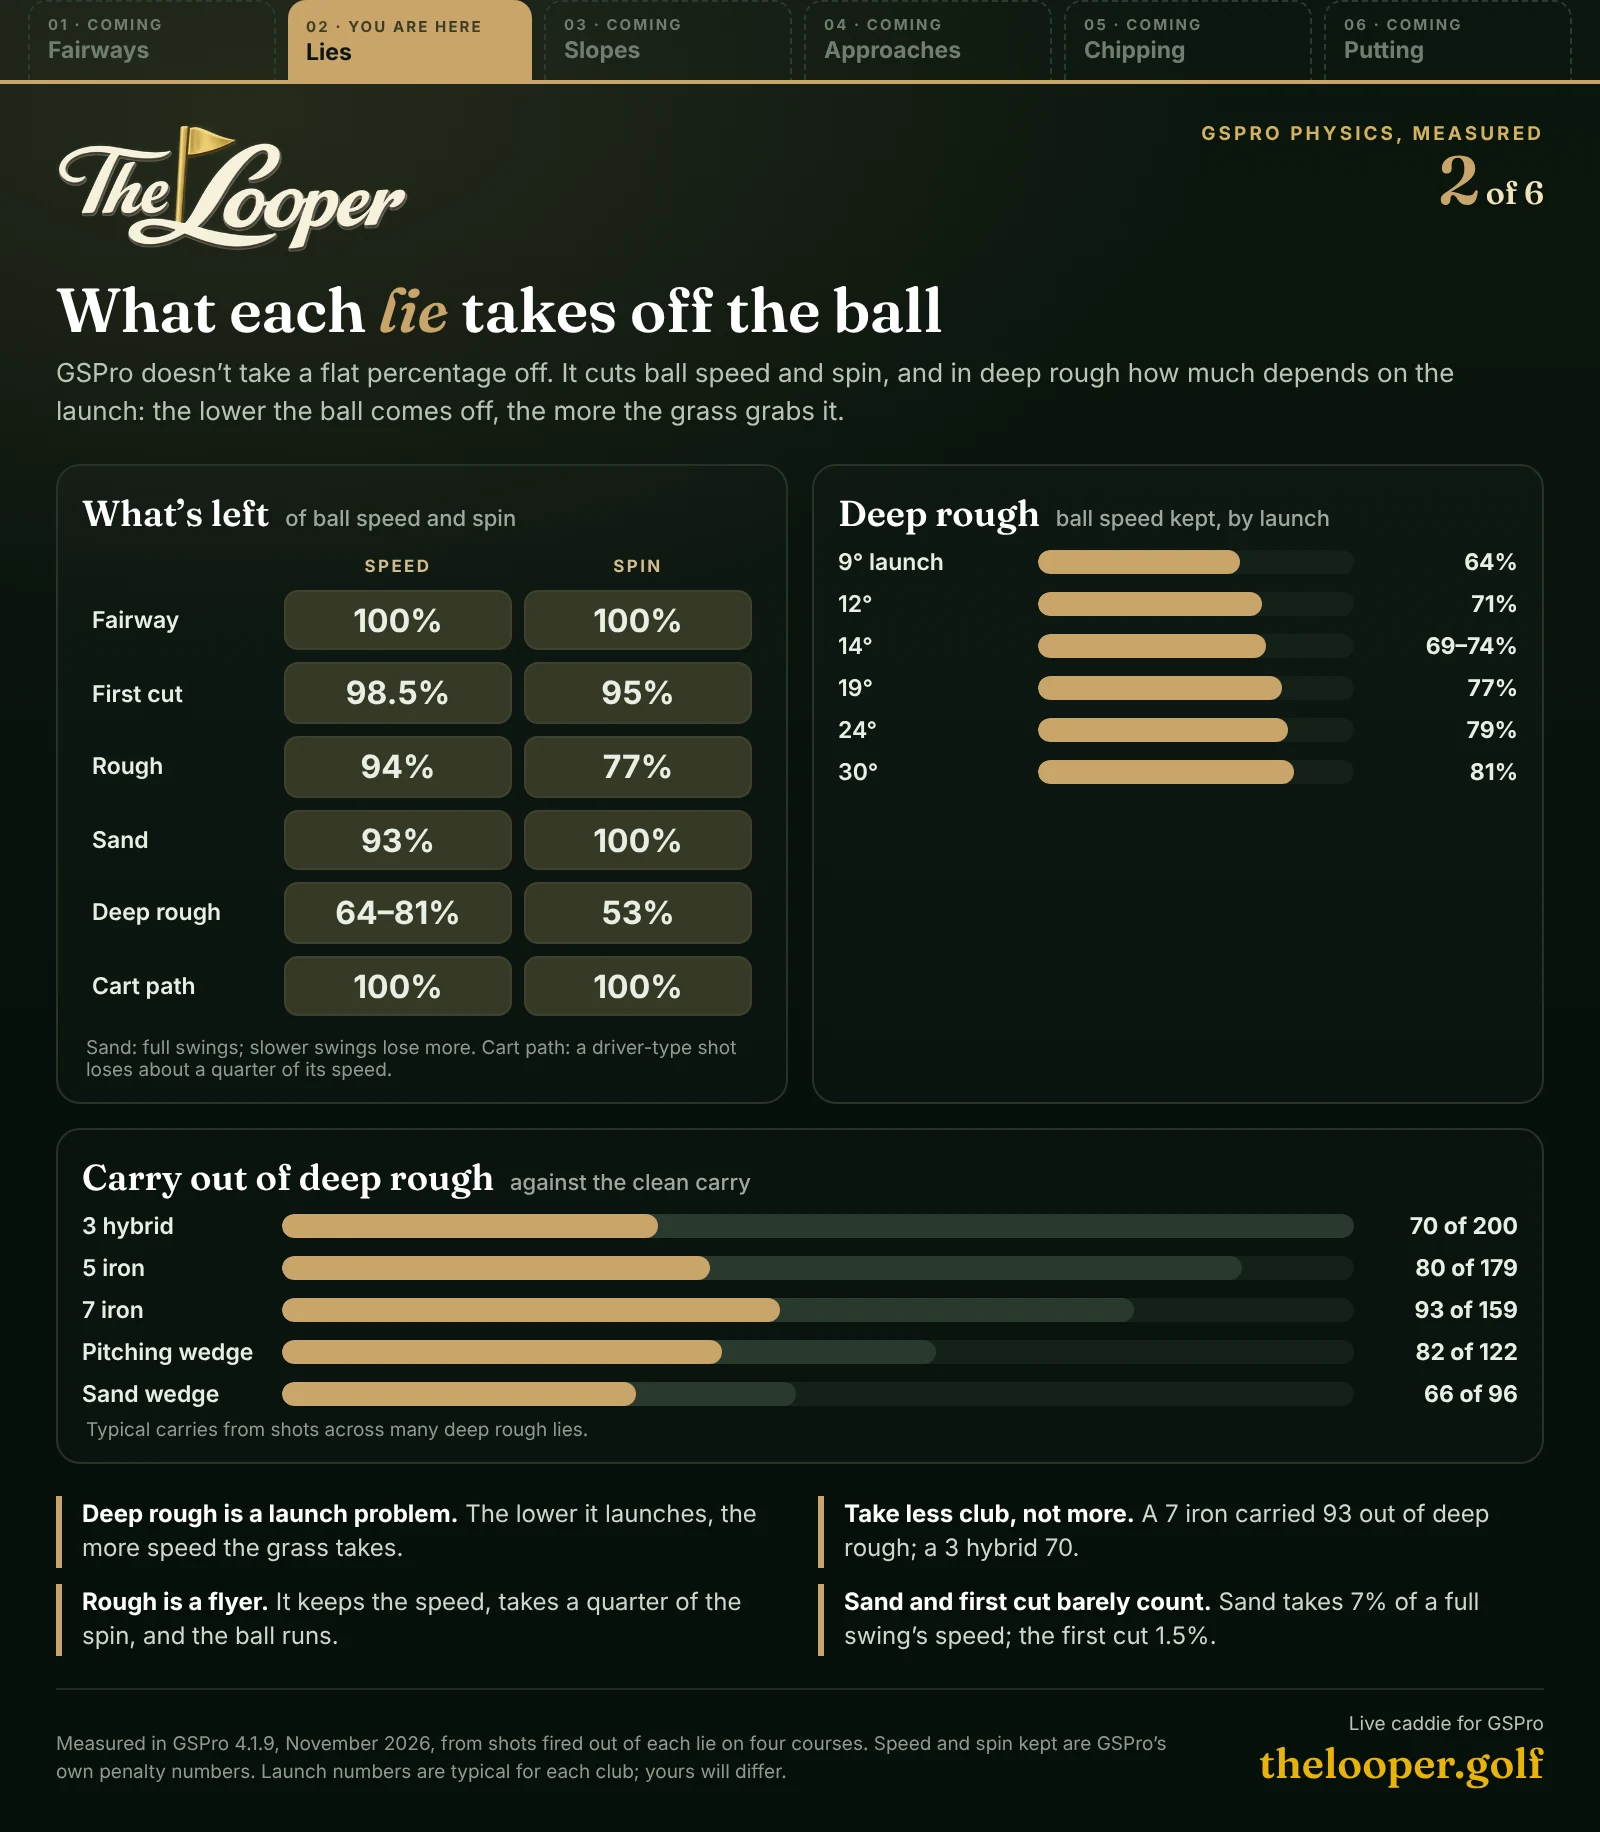
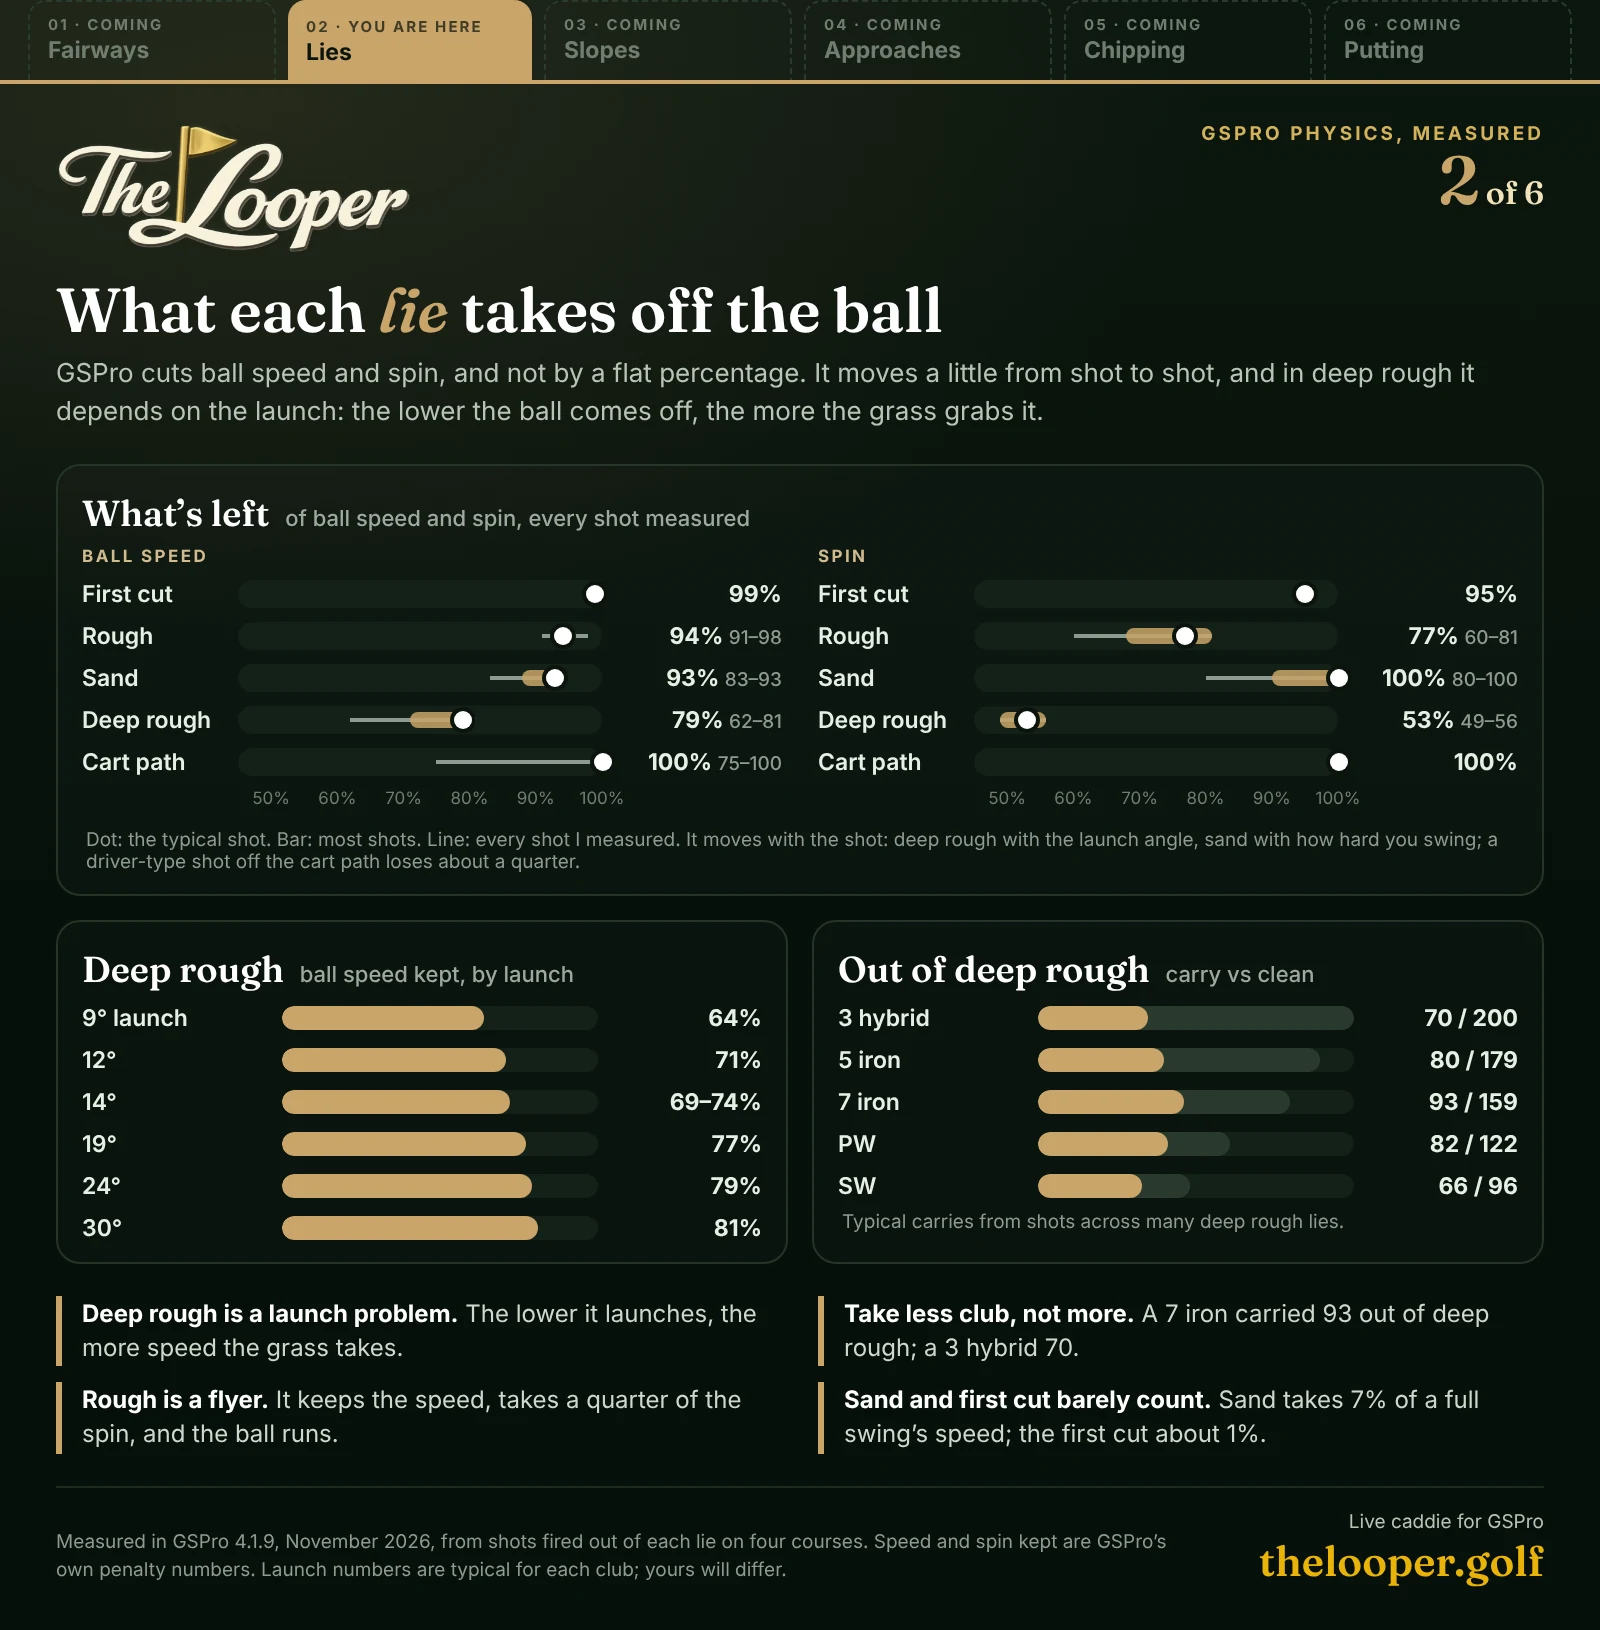
Insights: lie ranges on the Lies card, putting runaway wording
The Lies card shows each lie as a range (typical, most shots, every shot) for
ball speed and spin, with deep rough by launch and carries side by side.
Putting: putts on a 4.5% slope at stimp 13 never stopped; drop the distance claim.

Claude-Session: https://claude.ai/code/session_01KGFLfEpMWkfe6jJuN8KeAf

diff --git a/src/pages/InsightsPage.tsx b/src/pages/InsightsPage.tsx
@@ -107,9 +107,9 @@ const PARTS: readonly Part[] = [
     question: 'Your bag stops working in deep rough',
     card: {
       src: liesCard,
-      alt: 'Ball speed and spin GSPro leaves after each lie, deep rough speed by launch angle, and carries out of deep rough for a 3 hybrid, 5 iron, 7 iron and wedges against their clean carries.',
+      alt: 'Range of ball speed and spin GSPro leaves after each lie, deep rough speed by launch angle, and carries out of deep rough for a 3 hybrid, 5 iron, 7 iron and wedges against their clean carries.',
       width: 1600,
-      height: 1832,
+      height: 1630,
     },
     caddie: 'Looper reads the lie from GSPro before every shot, and works out each club from there, not from your fairway numbers.',
     article: (
@@ -132,8 +132,8 @@ const PARTS: readonly Part[] = [
             come out runs on landing.
           </li>
           <li>
-            <strong>Rough is a flyer, not a penalty.</strong> It costs a few percent of speed but up to a third of the
-            spin. A 5 iron from the rough carried 12 yards less than from the fairway and finished 2 yards further,
+            <strong>Rough is a flyer, not a penalty.</strong> It costs 3 to 7% of speed but 20 to 30% of the spin,
+            depending on the shot. A 5 iron from the rough carried 12 yards less than from the fairway and finished 2 yards further,
             because it ran out.
           </li>
           <li>
@@ -141,7 +141,7 @@ const PARTS: readonly Part[] = [
             iron and leaves the spin alone. Slower swings lose more of both.
           </li>
           <li>
-            <strong>The first cut barely counts.</strong> About 1.5% of speed and 5% of spin.
+            <strong>The first cut barely counts.</strong> About 1% of speed and 5% of spin.
           </li>
           <li>
             <strong>The cart path is free</strong>, unless you hit a driver-type shot off it, which loses about a
@@ -381,8 +381,8 @@ const PARTS: readonly Part[] = [
           </li>
           <li>
             <strong>Some putts never stop.</strong> Past a certain downhill grade the ball can&rsquo;t stop: about
-            7.5% at stimp 8, 4.7% at stimp 11 and 3.6% at stimp 13. At stimp 13 on a 4.5% slope, every putt I hit
-            from 2 to 7 mph ran about 75 feet.
+            7.5% at stimp 8, 4.7% at stimp 11 and 3.6% at stimp 13. At stimp 13 on a 4.5% slope, not one putt
+            stopped on the slope, at any speed. They rolled on until the green flattened out.
           </li>
         </ul>
         <h3>What to do with it</h3>
@@ -414,7 +414,7 @@ const CHEAT_SHEET: readonly { stage: string; see: string; rule: ReactNode; part:
   { stage: 'Off the tee', see: 'Fairway firmness', rule: <>Second. Soft to firm adds about 14 yards to a drive on Bermuda. On Bentgrass, irons stop where they land on any firmness.</>, part: 'fairways' },
   { stage: 'From the lie', see: 'Deep rough', rule: <>Take the club that launches highest and still gets there. A 7 iron carried 93; a 3 hybrid 70.</>, part: 'lies' },
   { stage: 'From the lie', see: 'Rough', rule: <>A flyer: about a dozen yards less carry on a 5 iron, then more run.</>, part: 'lies' },
-  { stage: 'From the lie', see: 'Sand, first cut, cart path', rule: <>Barely count on a full swing. Sand takes 7% of the ball speed; the first cut 1.5%.</>, part: 'lies' },
+  { stage: 'From the lie', see: 'Sand, first cut, cart path', rule: <>Barely count on a full swing. Sand takes 7% of the ball speed; the first cut about 1%.</>, part: 'lies' },
   { stage: 'From the lie', see: 'Side slope', rule: <>Aim off toward the side the lie readout names: about 3 yards per degree with a hybrid or wood, 2 with a mid iron, 1 with a wedge.</>, part: 'slopes' },
   { stage: 'From the lie', see: 'Up or down slope', rule: <>Irons: ignore it. A hybrid off a downslope loses about 7 yards at 4&deg;, so take loft.</>, part: 'slopes' },
   { stage: 'Into the green', see: 'Green grass', rule: <>Read it before the firmness. Wedges barely care; a 5 iron releases 6 to 13 yards more on Links than Bermuda soft.</>, part: 'approaches' },

diff --git a/tools/insights_cards/card_data.py b/tools/insights_cards/card_data.py
@@ -37,26 +37,31 @@ CARDS = [
     {
         "id": "lies",
         "title": "What each [lie] takes off the ball",
-        "lede": "GSPro doesn’t take a flat percentage off. It cuts ball speed and spin, and in deep rough how much depends on "
-                "the launch: the lower the ball comes off, the more the grass grabs it.",
+        "lede": "GSPro cuts ball speed and spin, and not by a flat percentage. It moves a little from shot to shot, and in deep "
+                "rough it depends on the launch: the lower the ball comes off, the more the grass grabs it.",
         "panels": [
-            {"kind": "grid", "title": "What’s left", "sub": "of ball speed and spin", "cols": ["Speed", "Spin"], "diff": False,
-             "rows": [("Fairway", ["100%", "100%"]), ("First cut", ["98.5%", "95%"]), ("Rough", ["94%", "77%"]),
-                      ("Sand", ["93%", "100%"]), ("Deep rough", ["64–81%", "53%"]), ("Cart path", ["100%", "100%"])],
-             "foot": "Sand: full swings; slower swings lose more. Cart path: a driver-type shot loses about a quarter of its speed."},
+            {"kind": "ranges", "title": "What\u2019s left", "sub": "of ball speed and spin, every shot measured", "span": "wide",
+             "cols": ["Ball speed", "Spin"], "scale": (45, 100), "ticks": [50, 60, 70, 80, 90, 100],
+             "rows": [("First cut", [(99, 99, 99, 99, 99), (95, 95, 95, 95, 95)]),
+                      ("Rough", [(91, 93, 94, 96, 98), (60, 68, 77, 81, 81)]),
+                      ("Sand", [(83, 88, 93, 93, 93), (80, 90, 100, 100, 100)]),
+                      ("Deep rough", [(62, 71, 79, 81, 81), (49, 49, 53, 56, 56)]),
+                      ("Cart path", [(75, 100, 100, 100, 100), (100, 100, 100, 100, 100)])],
+             "foot": "Dot: the typical shot. Bar: most shots. Line: every shot I measured. It moves with the shot: deep rough with the launch angle, "
+                     "sand with how hard you swing; a driver-type shot off the cart path loses about a quarter."},
             {"kind": "bars", "title": "Deep rough", "sub": "ball speed kept, by launch", "max": 100,
-             "rows": [("9° launch", 64, "64%"), ("12°", 71, "71%"), ("14°", 72, "69–74%"),
-                      ("19°", 77, "77%"), ("24°", 79, "79%"), ("30°", 81, "81%")]},
-            {"kind": "bars", "title": "Carry out of deep rough", "sub": "against the clean carry", "max": 200, "span": "wide",
-             "rows": [("3 hybrid", 70, "70 of 200", 200), ("5 iron", 80, "80 of 179", 179), ("7 iron", 93, "93 of 159", 159),
-                      ("Pitching wedge", 82, "82 of 122", 122), ("Sand wedge", 66, "66 of 96", 96)],
+             "rows": [("9\u00b0 launch", 64, "64%"), ("12\u00b0", 71, "71%"), ("14\u00b0", 72, "69\u201374%"),
+                      ("19\u00b0", 77, "77%"), ("24\u00b0", 79, "79%"), ("30\u00b0", 81, "81%")]},
+            {"kind": "bars", "title": "Out of deep rough", "sub": "carry vs clean", "max": 200,
+             "rows": [("3 hybrid", 70, "70 / 200", 200), ("5 iron", 80, "80 / 179", 179), ("7 iron", 93, "93 / 159", 159),
+                      ("PW", 82, "82 / 122", 122), ("SW", 66, "66 / 96", 96)],
              "foot": "Typical carries from shots across many deep rough lies."},
         ],
         "takeaways": [
             ("Deep rough is a launch problem.", "The lower it launches, the more speed the grass takes."),
             ("Take less club, not more.", "A 7 iron carried 93 out of deep rough; a 3 hybrid 70."),
             ("Rough is a flyer.", "It keeps the speed, takes a quarter of the spin, and the ball runs."),
-            ("Sand and first cut barely count.", "Sand takes 7% of a full swing’s speed; the first cut 1.5%."),
+            ("Sand and first cut barely count.", "Sand takes 7% of a full swing’s speed; the first cut about 1%."),
         ],
         "footer": "Measured in GSPro 4.1.9, November 2026, from shots fired out of each lie on four courses. Speed and spin kept "
                   "are GSPro’s own penalty numbers. Launch numbers are typical for each club; yours will differ.",

diff --git a/tools/insights_cards/cards.py b/tools/insights_cards/cards.py
@@ -112,6 +112,28 @@ def bars_panel(p, colour):
             + (f'<p class="foot">{e(p["foot"])}</p>' if p.get("foot") else "") + "</section>")
 
 
+def ranges_panel(p, colour):
+    """Range bars per row, one chart per column: line = every shot, bar = most shots (10th-90th), dot = typical."""
+    lo, hi = p["scale"]
+    pos = lambda v: 100 * (v - lo) / (hi - lo)
+    charts = []
+    for ci, col in enumerate(p["cols"]):
+        rows = []
+        for label, cells in p["rows"]:
+            mn, p10, med, p90, mx = cells[ci]
+            text = f"{med:g}%" if mn == mx else f"{med:g}%  <small>{mn:g}–{mx:g}</small>"
+            rows.append(
+                f'<div class="rng"><span class="lbl">{e(label)}</span><span class="track">'
+                f'<i class="whisk" style="left:{pos(mn):.1f}%;width:{max(0.6, pos(mx) - pos(mn)):.1f}%"></i>'
+                f'<i class="band" style="left:{pos(p10):.1f}%;width:{max(1.2, pos(p90) - pos(p10)):.1f}%;background:{colour}"></i>'
+                f'<i class="dot" style="left:{pos(med):.1f}%"></i></span><span class="val">{text}</span></div>')
+        ticks = "".join(f'<span style="left:{pos(t):.1f}%">{t}%</span>' for t in p["ticks"])
+        charts.append(f'<div class="rngchart"><h4>{e(col)}</h4>{"".join(rows)}<div class="ticks"><span class="lbl"></span><span class="tk">{ticks}</span><span class="val"></span></div></div>')
+    sub = f' <span class="sub">{e(p["sub"])}</span>' if p.get("sub") else ""
+    return (f'<section class="panel {p.get("span", "")}"><header><h3>{e(p["title"])}{sub}</h3></header>'
+            f'<div class="rngs">{"".join(charts)}</div>' + (f'<p class="foot">{e(p["foot"])}</p>' if p.get("foot") else "") + "</section>")
+
+
 def tile_panel(p, colour):
     items = "".join(f'<div class="tile"><b style="color:{colour}">{e(big)}</b><span>{e(text)}</span></div>'
                     for big, text in p["tiles"])
@@ -120,7 +142,7 @@ def tile_panel(p, colour):
             f'<div class="tiles">{items}</div>' + (f'<p class="foot">{e(p["foot"])}</p>' if p.get("foot") else "") + "</section>")
 
 
-PANEL = {"grid": grid_panel, "bars": bars_panel, "tiles": tile_panel}
+PANEL = {"grid": grid_panel, "bars": bars_panel, "tiles": tile_panel, "ranges": ranges_panel}
 
 
 def tabs(current):
@@ -198,6 +220,20 @@ th.row small {{ display: block; font-size: 9px; font-weight: 500; color: #8e9b90
 .tile {{ display: grid; grid-template-columns: 104px 1fr; gap: 10px; align-items: baseline; }}
 .tile b {{ white-space: nowrap; font-family: Fraunces, Georgia, serif; font-size: 24px; font-weight: 600; line-height: 1; }}
 .tile span {{ font-size: 11.5px; color: #cfd8cd; line-height: 1.35; }}
+.rngs {{ display: grid; grid-template-columns: 1fr 1fr; gap: 18px; margin-top: 4px; }}
+.rngchart h4 {{ margin: 0 0 6px; font-size: 8.5px; letter-spacing: .14em; text-transform: uppercase; color: color-mix(in srgb, {colour} 70%, #e7efe4); }}
+.rng, .ticks {{ display: grid; grid-template-columns: 70px 1fr 82px; align-items: center; gap: 8px; font-size: 11.5px; margin-bottom: 7px; }}
+.rng .lbl {{ font-weight: 600; }}
+.rng .track, .ticks .tk {{ position: relative; height: 14px; }}
+.rng .track {{ background: #142118; border-radius: 7px; }}
+.rng .track i {{ position: absolute; top: 50%; transform: translateY(-50%); }}
+.rng .whisk {{ height: 2px; background: #8e9b90; }}
+.rng .band {{ height: 8px; border-radius: 4px; opacity: .85; }}
+.rng .dot {{ width: 9px; height: 9px; margin-left: -4.5px; border-radius: 50%; background: #fff; box-shadow: 0 0 0 2px #0b140d; }}
+.rng .val {{ text-align: right; font-weight: 700; }}
+.rng .val small {{ font-weight: 500; color: #8e9b90; font-size: 9.5px; }}
+.ticks {{ margin: 0; }}
+.ticks .tk span {{ position: absolute; transform: translateX(-50%); font-size: 8.5px; color: #6f7d70; }}
 .foot {{ margin: 6px 2px 0; font-size: 9.5px; color: #8e9b90; }}
 ul {{ display: grid; grid-template-columns: 1fr 1fr; gap: 8px 18px; margin: 16px 0 0; padding: 0; list-style: none; }}
 li {{ border-left: 3px solid; padding: 1px 0 1px 10px; font-size: 12px; line-height: 1.4; color: #cfd8cd; }}
